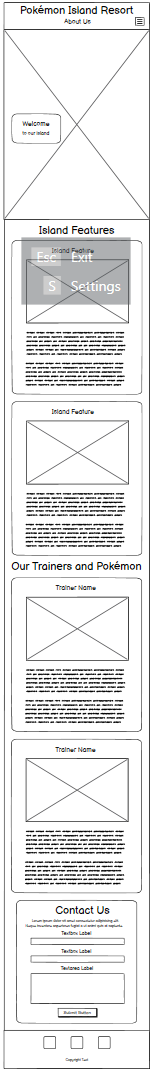
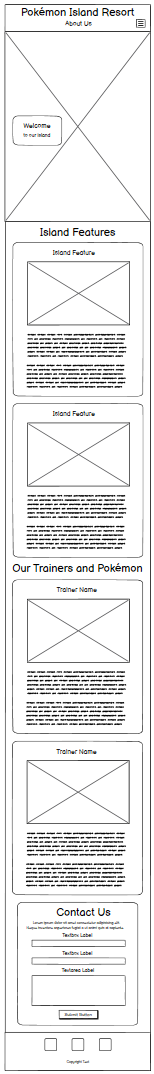
Tidy readme

Changed region(s): [[0.0, 0.0, 1.0, 1.0], [0.6579, 0.0617, 0.7632, 0.0925], [0.5, 0.5243, 0.5263, 0.5551]]

diff --git a/README.md b/README.md
@@ -142,7 +142,7 @@ Home Page on smaller screens (mobile & tablet):
 
 | Home Page on larger screens (laptops & larger): | Home Page on smaller screens (mobile & tablet): |
 | :---: | :---: |
-|  | *I have removed some of the duplicate text bubbles that will be on the finished website so that the image isn't too long* |
+|  | *I have removed some of the extra text bubbles that will be <br>on the finished website so that the image isn't too long* |
 | ![Home Page Wireframe - large screens](assets/images/readme/wireframes/wireframe-large-home-page.png) | ![Home Page Wireframe - small screens](assets/images/readme/wireframes/wireframe-small-home-page.png) |
 </details>
 
